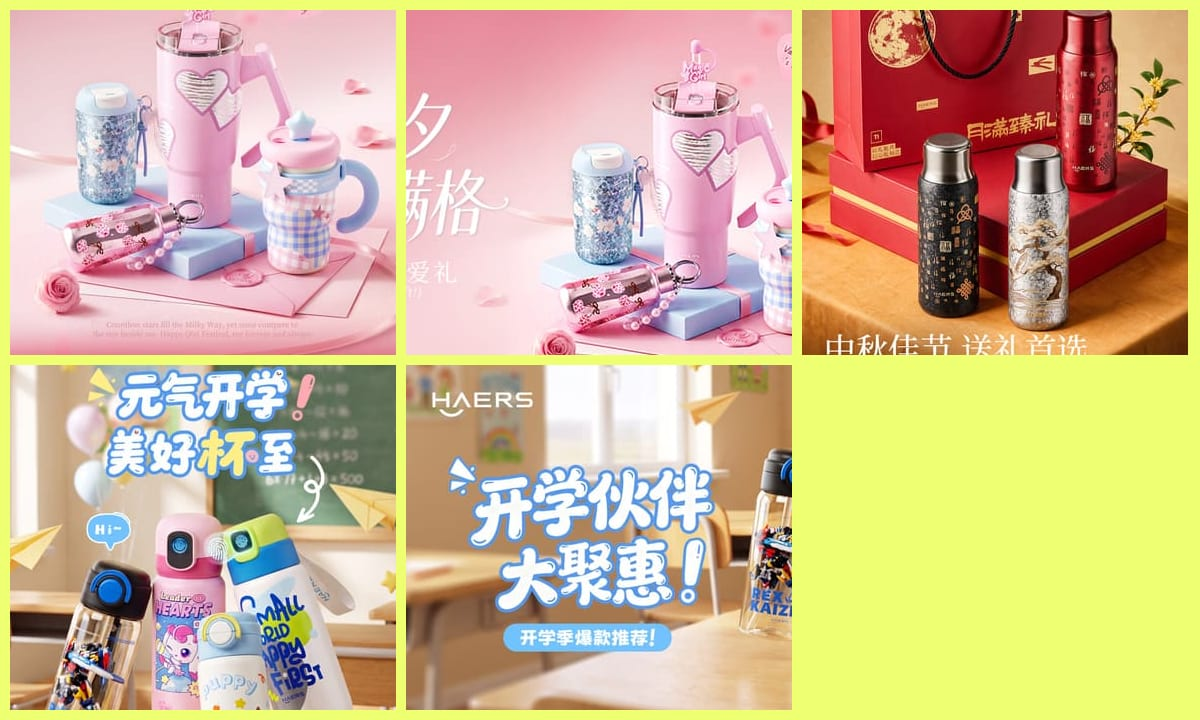
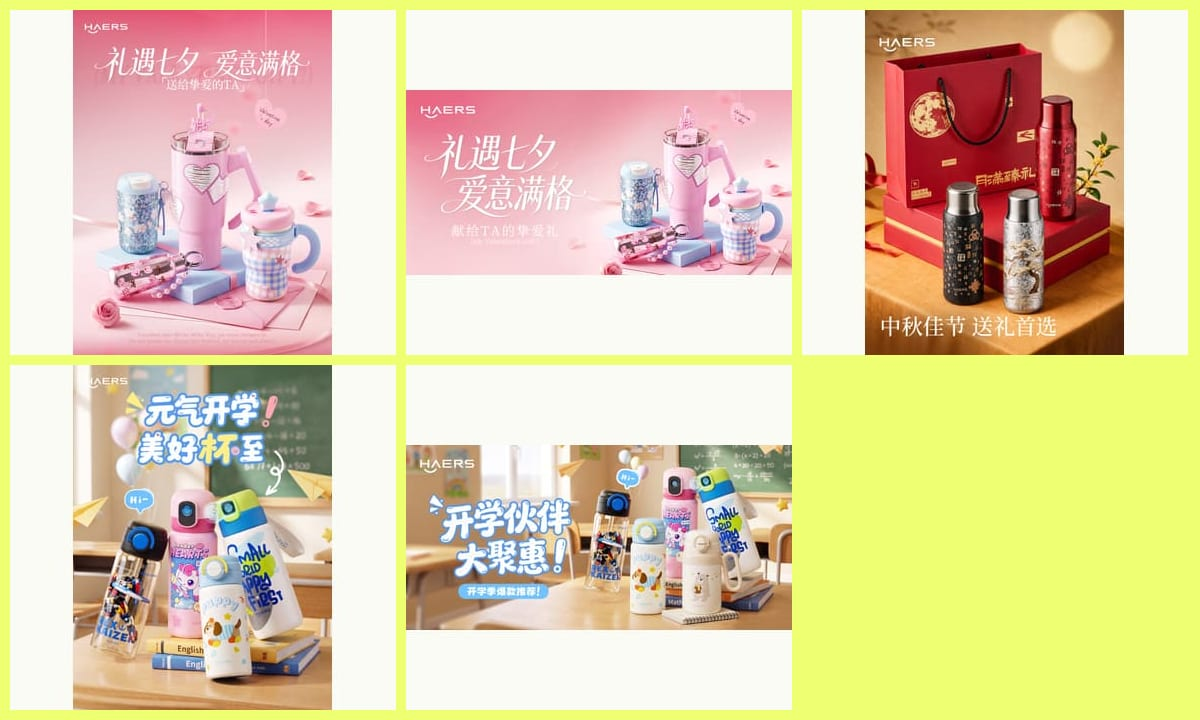
????7????????????

diff --git a/index.html b/index.html
@@ -2964,9 +2964,9 @@ body.deck-editing #overview{pointer-events:none}
         <div style="background:#111;color:#efff72;border-top:5px solid #efff72;padding:1.25vh 1vw"><div class="lulu-small" style="font-family:var(--mono);font-weight:700;color:#efff72">STANDARD</div><div class="lulu-stat-sm" style="font-size:min(4.1vw,6.8vh);margin-top:.5vh;color:#efff72">1</div><p class="lulu-small" style="font-weight:700;color:#efff72">刻字规范；团购刻字已承接</p></div>
       </div>
       <div style="display:grid;grid-template-columns:1.42fr 1fr 1fr;gap:.85vw;min-height:0">
-        <figure style="margin:0;min-height:0;display:grid;grid-template-rows:1fr auto;gap:.55vh"><div style="min-height:0;overflow:hidden;background:#151515"><img src="assets/july-car-grid.jpg" alt="车图汇总，共9张" loading="eager" fetchpriority="high" style="width:100%;height:100%;object-fit:cover;object-position:center center;display:block"></div><figcaption class="lulu-small" style="font-weight:700;color:#333">车图汇总 · 9 张输出</figcaption></figure>
-        <figure style="margin:0;min-height:0;display:grid;grid-template-rows:1fr auto;gap:.55vh"><div style="min-height:0;overflow:hidden;background:#18130f"><img src="assets/july-detail-grid.jpg" alt="详情页汇总，两款产品分段展示" loading="eager" fetchpriority="high" style="width:100%;height:100%;object-fit:cover;object-position:center center;display:block"></div><figcaption class="lulu-small" style="font-weight:700;color:#333">新品详情汇总 · 2 款</figcaption></figure>
-        <figure style="margin:0;min-height:0;display:grid;grid-template-rows:1fr auto;gap:.55vh"><div style="min-height:0;overflow:hidden;background:#efff72"><img src="assets/july-campaign-grid.jpg" alt="营销活动汇总，共5张" loading="eager" fetchpriority="high" style="width:100%;height:100%;object-fit:cover;object-position:center center;display:block"></div><figcaption class="lulu-small" style="font-weight:700;color:#333">营销活动汇总 · 5 张输出</figcaption></figure>
+        <figure style="margin:0;min-height:0;display:grid;grid-template-rows:1fr auto;gap:.55vh"><div style="min-height:0;overflow:hidden;background:#151515"><img src="assets/july-car-grid.jpg" alt="车图部分作品汇总" loading="eager" fetchpriority="high" style="width:100%;height:100%;object-fit:contain;object-position:center center;display:block"></div><figcaption class="lulu-small" style="font-weight:700;color:#333">车图汇总</figcaption></figure>
+        <figure style="margin:0;min-height:0;display:grid;grid-template-rows:1fr auto;gap:.55vh"><div style="min-height:0;overflow:hidden;background:#18130f"><img src="assets/july-detail-grid.jpg" alt="新品详情部分作品汇总" loading="eager" fetchpriority="high" style="width:100%;height:100%;object-fit:contain;object-position:center center;display:block"></div><figcaption class="lulu-small" style="font-weight:700;color:#333">新品详情汇总</figcaption></figure>
+        <figure style="margin:0;min-height:0;display:grid;grid-template-rows:1fr auto;gap:.55vh"><div style="min-height:0;overflow:hidden;background:#efff72"><img src="assets/july-campaign-grid.jpg" alt="营销活动部分作品汇总" loading="eager" fetchpriority="high" style="width:100%;height:100%;object-fit:contain;object-position:center center;display:block"></div><figcaption class="lulu-small" style="font-weight:700;color:#333">营销活动汇总</figcaption></figure>
       </div>
       <div style="border-top:1px solid rgba(17,17,17,.28);padding-top:1vh"><p class="lulu-small" style="font-size:max(14px,.86vw);line-height:1.38;margin:0;color:#333"><span class="lulu-mark">口播：</span>7 月大部分需求都按时完成，主要完成了 18 款老品维护、11 次营销素材、7 款新品详情页，同时完成 1 个视频需求和 1 次刻字规范，团购刻字需求也已经承接。</p></div>
     </div>
